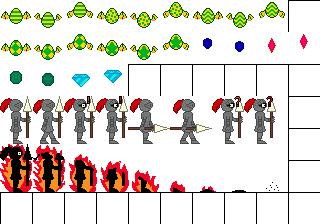
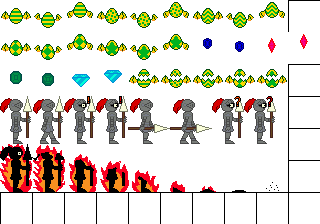
Added damage system (player)

Changed region(s): [[0.375, 0.2812, 0.9062, 0.4062]]

diff --git a/tamagon/src/tamagon/Player.java b/tamagon/src/tamagon/Player.java
@@ -2,24 +2,25 @@ package tamagon;
 
 import java.awt.Graphics;
 import java.awt.image.BufferedImage;
+import java.util.ArrayList;
 
 public class Player extends Entity {
 
 	/**
 	 * Player controls
 	 */
-	static boolean right = false, left = false, jump = false, attack = false, canAttack = true;
+	static boolean right = false, left = false, jump = false, attack = false, canAttack = true, hurt = false;
 
 	/**
 	 * Player's manipulable statistics;
 	 */
-	static int speed = 2, gravity = 4, direction = 1, life = 3, eggs = 0, score = 0;
+	static int speed = 2, gravity = 4, direction = 1, life = 3, score = 0;
 
 	/**
 	 * Jump duration and animation control
 	 */
 	private int jumpHeight = 64, jumpFrames = 0, animationFrames = 0, maxFrame = 8, animationIndex = 0, maxIndex = 1,
-			offsetW = w * Game.scale, offsetX = 0;
+			offsetW = w * Game.scale, offsetX = 0, hurtFrames = 0, hurtMaxFrames = 120;
 
 	/**
 	 * Detects motion
@@ -31,6 +32,10 @@ public class Player extends Entity {
 	 */
 	private BufferedImage[] sprites = SpriteLoader.playerWalk;
 	
+	/**
+	 * Store eggs
+	 */
+	static ArrayList<Egg> eggs;
 
 	/**
 	 * Player
@@ -42,6 +47,9 @@ public class Player extends Entity {
 	 */
 	public Player(int x, int y, int w, int h) {
 		super(x, y, w, h);
+		
+		//Initialize egg list
+		eggs = new ArrayList<>();
 	}
 
 	@Override
@@ -65,36 +73,48 @@ public class Player extends Entity {
 			}
 		}
 
+		// Hurt frames
+		if (hurt) {
+			hurtFrames++;
+			if (hurtFrames >= hurtMaxFrames) {
+				hurtFrames = 0;
+				hurt = false;
+			}
+		}
+
 		// Draw the sprite
-		g.drawImage(sprites[animationIndex], (x * Game.scale - Camera.x) + offsetX, y * Game.scale - Camera.y, offsetW,
-				h * Game.scale, null);
+		//Check if hurt frames is even so it triggers flickering
+		if (hurtFrames % 2 == 0) {
+			g.drawImage(sprites[animationIndex], (x * Game.scale - Camera.x) + offsetX, y * Game.scale - Camera.y,
+					offsetW, h * Game.scale, null);
+		}
 	}
 
 	/**
 	 * Controls the player's inputs
 	 */
 	private void movement() {
-		
+
 		// Check if player is grounded
 		if (checkTileCollision(x, y + gravity)) {
-			
-			//Moving sound
+
+			// Moving sound
 			if (isMoving)
-				if (Game.sfx) Game.sounds.walk.play();
+				if (Game.sfx)
+					Game.sounds.walk.play();
 		}
-		
 
 		// If player is airborne and its not jumping, then proceed to fall (gravity)
 		if (!checkTileCollision(x, y + gravity) && !jump) {
-			
-			//Background animation
-			Level.bgY-=2*Game.scale;
-			Level.bgY1-=0.1f*Game.scale;
-			Level.bgY2-=0.2f*Game.scale;
-			Level.bgY3-=0.3f*Game.scale;
-			Level.bgY4-=0.5f*Game.scale;
-			
-			//Movement
+
+			// Background animation
+			Level.bgY -= 2 * Game.scale;
+			Level.bgY1 -= 0.1f * Game.scale;
+			Level.bgY2 -= 0.2f * Game.scale;
+			Level.bgY3 -= 0.3f * Game.scale;
+			Level.bgY4 -= 0.5f * Game.scale;
+
+			// Movement
 			y += gravity;
 		}
 
@@ -118,7 +138,7 @@ public class Player extends Entity {
 			offsetW = w * Game.scale;
 			offsetX = 0;
 		} else if (left && !checkTileCollision(x - speed, y)) {
-			
+
 			// Moves left while path is clear of colliders
 			x -= speed;
 			direction = -1;
@@ -138,26 +158,27 @@ public class Player extends Entity {
 			offsetX = (w * Game.scale);
 		} else {
 			isMoving = false;
-			if(!canAttack) sprites = SpriteLoader.playerWalkATK;
+			if (!canAttack)
+				sprites = SpriteLoader.playerWalkATK;
 		}
 
 		// Jump control
 		if (jump) {
-			
+
 			// Animation
 			sprites = (canAttack) ? SpriteLoader.playerJump : SpriteLoader.playerJumpATK;
 
 			// Activates jumping state if there is no ceiling
 			if (!checkTileCollision(x, y - gravity)) {
-				
-				//Background animation
-				Level.bgY+=2*Game.scale;
-				Level.bgY1+=0.1f*Game.scale;
-				Level.bgY2+=0.2f*Game.scale;
-				Level.bgY3+=0.3f*Game.scale;
-				Level.bgY4+=0.5f*Game.scale;
-				
-				//Movement
+
+				// Background animation
+				Level.bgY += 2 * Game.scale;
+				Level.bgY1 += 0.1f * Game.scale;
+				Level.bgY2 += 0.2f * Game.scale;
+				Level.bgY3 += 0.3f * Game.scale;
+				Level.bgY4 += 0.5f * Game.scale;
+
+				// Movement
 				y -= gravity;
 				jumpFrames += gravity;
 				if (jumpFrames >= jumpHeight) {
@@ -174,7 +195,8 @@ public class Player extends Entity {
 
 		// Player attacks
 		if (attack && canAttack) {
-			if (Game.sfx) Game.sounds.fire.play();
+			if (Game.sfx)
+				Game.sounds.fire.play();
 			canAttack = false;
 			Fireball fb = new Fireball(x, y, w, h);
 			fb.direction = direction;
@@ -187,11 +209,11 @@ public class Player extends Entity {
 	 * Updates player's camera
 	 */
 	private void updateCamera() {
-		int cameraX = (x*Game.scale) - (Game.width/2 - (Level.dimension * Game.scale) / 2);
-        int cameraY = (y*Game.scale) - (Game.height/2 - (Level.dimension * Game.scale)/ 2);
+		int cameraX = (x * Game.scale) - (Game.width / 2 - (Level.dimension * Game.scale) / 2);
+		int cameraY = (y * Game.scale) - (Game.height / 2 - (Level.dimension * Game.scale) / 2);
 
-        Camera.x = Camera.clampCamera(cameraX, 0, Level.levelW * (Level.dimension * Game.scale) - Game.width);
-        Camera.y = Camera.clampCamera(cameraY, 0, Level.levelH * (Level.dimension * Game.scale) - Game.height);
+		Camera.x = Camera.clampCamera(cameraX, 0, Level.levelW * (Level.dimension * Game.scale) - Game.width);
+		Camera.y = Camera.clampCamera(cameraY, 0, Level.levelH * (Level.dimension * Game.scale) - Game.height);
 	}
 
 }

diff --git a/tamagon/src/tamagon/SpriteLoader.java b/tamagon/src/tamagon/SpriteLoader.java
@@ -64,35 +64,40 @@ public class SpriteLoader {
 		fireballCollide[1] = playerSheet.getSprite(32, 160, 32, 32);
 		
 		//EGGS
-		egg1 = new BufferedImage[4];
+		egg1 = new BufferedImage[5];
 		egg1[0] = entitySheet.getSprite(0, 0, 32, 32);
 		egg1[1] = entitySheet.getSprite(32, 0, 32, 32);
 		egg1[2] = entitySheet.getSprite(0, 0, 32, 32);
 		egg1[3] = entitySheet.getSprite(32*2, 0, 32, 32);
+		egg1[4] = entitySheet.getSprite(128, 64, 32, 32);
 		
-		egg2 = new BufferedImage[4];
+		egg2 = new BufferedImage[5];
 		egg2[0] = entitySheet.getSprite(32*3, 0, 32, 32);
 		egg2[1] = entitySheet.getSprite(32*4, 0, 32, 32);
 		egg2[2] = entitySheet.getSprite(32*3, 0, 32, 32);
 		egg2[3] = entitySheet.getSprite(32*5, 0, 32, 32);
+		egg2[4] = entitySheet.getSprite(128+32, 64, 32, 32);
 		
-		egg3 = new BufferedImage[4];
+		egg3 = new BufferedImage[5];
 		egg3[0] = entitySheet.getSprite(32*6, 0, 32, 32);
 		egg3[1] = entitySheet.getSprite(32*7, 0, 32, 32);
 		egg3[2] = entitySheet.getSprite(32*6, 0, 32, 32);
 		egg3[3] = entitySheet.getSprite(32*8, 0, 32, 32);
+		egg3[4] = entitySheet.getSprite(128+(32*2), 64, 32, 32);
 		
-		egg4 = new BufferedImage[4];
+		egg4 = new BufferedImage[5];
 		egg4[0] = entitySheet.getSprite(0, 32, 32, 32);
 		egg4[1] = entitySheet.getSprite(32, 32, 32, 32);
 		egg4[2] = entitySheet.getSprite(0, 32, 32, 32);
 		egg4[3] = entitySheet.getSprite(32*2, 32, 32, 32);
+		egg4[4] = entitySheet.getSprite(128+(32*3), 64, 32, 32);
 		
-		egg5 = new BufferedImage[4];
+		egg5 = new BufferedImage[5];
 		egg5[0] = entitySheet.getSprite(32*3, 32, 32, 32);
 		egg5[1] = entitySheet.getSprite(32*4, 32, 32, 32);
 		egg5[2] = entitySheet.getSprite(32*3, 32, 32, 32);
 		egg5[3] = entitySheet.getSprite(32*5, 32, 32, 32);
+		egg5[4] = entitySheet.getSprite(128+(32*4), 64, 32, 32);
 		
 		//GEMS
 		sapphire = new BufferedImage[2];

diff --git a/tamagon/src/tamagon/Egg.java b/tamagon/src/tamagon/Egg.java
@@ -18,12 +18,12 @@ public class Egg extends Entity {
 	/**
 	 * Animation variables
 	 */
-	private int animationFrames = 0, maxFrame = 30, maxIndex = 1, animationIndex = 0;
+	private int animationFrames = 0, maxFrame = 5, maxIndex = 3, animationIndex = 0;
 	
 	/**
 	 * Egg position
 	 */
-	private int position = 0;
+	public int position = 0;
 	
 	/**
 	 * Egg speed
@@ -44,24 +44,30 @@ public class Egg extends Entity {
 
 	@Override
 	public void update() {
+		
+		//Break the egg
+		if(!alive) state = "broken";
 
 		// Checks if player collided
 		if (this.checkCollisionWithPlayer(this) && state.equals("standing")) {
+			//Position distribution
+			if (Player.eggs.size() == 0) {
+				position = 1;
+			} else if (Player.eggs.size() == 1) {
+				position = 2;
+			}
+			
+			//Follows the player
 			state = "follow";
-			Player.eggs++;
+			
+			//Add to the egg list
+			Player.eggs.add(this);
 			
 			//Score distribution
 			if (id == 1) {
 				Player.score+=100;
 			}else if (id == 2) {
 				Player.score+=200;
-			}
-			
-			//Position distribution
-			if (Player.eggs == 1) {
-				position = 1;
-			} else if (Player.eggs == 2) {
-				position = 2;
 			}
 			
 			//Sound
@@ -104,6 +110,10 @@ public class Egg extends Entity {
 			animationIndex++;
 			if (animationIndex > maxIndex) {
 				animationIndex = 0;
+				if(!alive) {
+					Game.entities.remove(this);
+					Player.eggs.remove(this);
+				}
 			}
 		}
 
@@ -119,6 +129,9 @@ public class Egg extends Entity {
 		} else if (id == 5) {
 			sprites = SpriteLoader.egg5;
 		}
+		
+		//Broken sprite
+		if (!alive) animationIndex = 4;
 
 		// Draw the sprite
 		g.drawImage(sprites[animationIndex], (x * Game.scale - Camera.x), y * Game.scale - Camera.y, w * Game.scale,

diff --git a/tamagon/src/tamagon/UserInterface.java b/tamagon/src/tamagon/UserInterface.java
@@ -489,14 +489,14 @@ public class UserInterface {
 		g.setColor(new Color(248, 144, 32));
 		g.setFont(new Font("Calibri", Font.BOLD, 16 * Game.scale));
 		g.drawString(Player.life + "/3", 21 * Game.scale, 14 * Game.scale);
-		g.drawString(Player.eggs + "/5", (Game.width / 2) - 8 * Game.scale, 14 * Game.scale);
+		g.drawString(Player.eggs.size() + "/5", (Game.width / 2) - 8 * Game.scale, 14 * Game.scale);
 		g.drawString("SCORE: " + Player.score, Game.width - 100 * Game.scale, 14 * Game.scale);
 
 		// Draw text
 		g.setColor(new Color(248, 216, 32));
 		g.setFont(new Font("Calibri", Font.PLAIN, 16 * Game.scale));
 		g.drawString(Player.life + "/3", 21 * Game.scale, 14 * Game.scale);
-		g.drawString(Player.eggs + "/5", (Game.width / 2) - 8 * Game.scale, 14 * Game.scale);
+		g.drawString(Player.eggs.size() + "/5", (Game.width / 2) - 8 * Game.scale, 14 * Game.scale);
 		g.drawString("SCORE: " + Player.score, Game.width - 100 * Game.scale, 14 * Game.scale);
 
 	}

diff --git a/tamagon/src/tamagon/Knight.java b/tamagon/src/tamagon/Knight.java
@@ -51,6 +51,24 @@ public class Knight extends Entity {
 			if (state.equals("inactive")) {
 				state = "walking";
 			}
+			
+			//Damage check
+			if (this.checkCollisionWithPlayer(this) && !Player.hurt) {
+				Player.hurt = true;
+				if (Player.eggs.size() > 0) {
+					
+					//Kills the egg
+					Player.eggs.get(0).alive = false;
+					
+					//Reduces egg position if there's any
+					if (Player.eggs.size() > 1) Player.eggs.get(1).position--;
+					
+					//Hurt sound effect
+					if(Game.sfx) Game.sounds.hurt.play();
+				}
+				
+				
+			}
 
 		}
 

diff --git a/tamagon/src/tamagon/Sound.java b/tamagon/src/tamagon/Sound.java
@@ -17,7 +17,7 @@ public class Sound {
 	/**
 	 * Effects
 	 */
-	public AudioClip cursor, jump, fire, hit, walk, egg, sapphire, ruby, emerald, diamond, knightWalk, knightRun;
+	public AudioClip cursor, jump, fire, hit, walk, egg, sapphire, ruby, emerald, diamond, knightWalk, knightRun, hurt;
 	
 	/**
 	 * Loads game Sounds
@@ -40,6 +40,7 @@ public class Sound {
 		diamond = load("diamond.wav");
 		knightWalk = load("knightWalk.wav");
 		knightRun = load("knightRun.wav");
+		hurt = load("hurt.wav");
 	}
 	
 	/**
